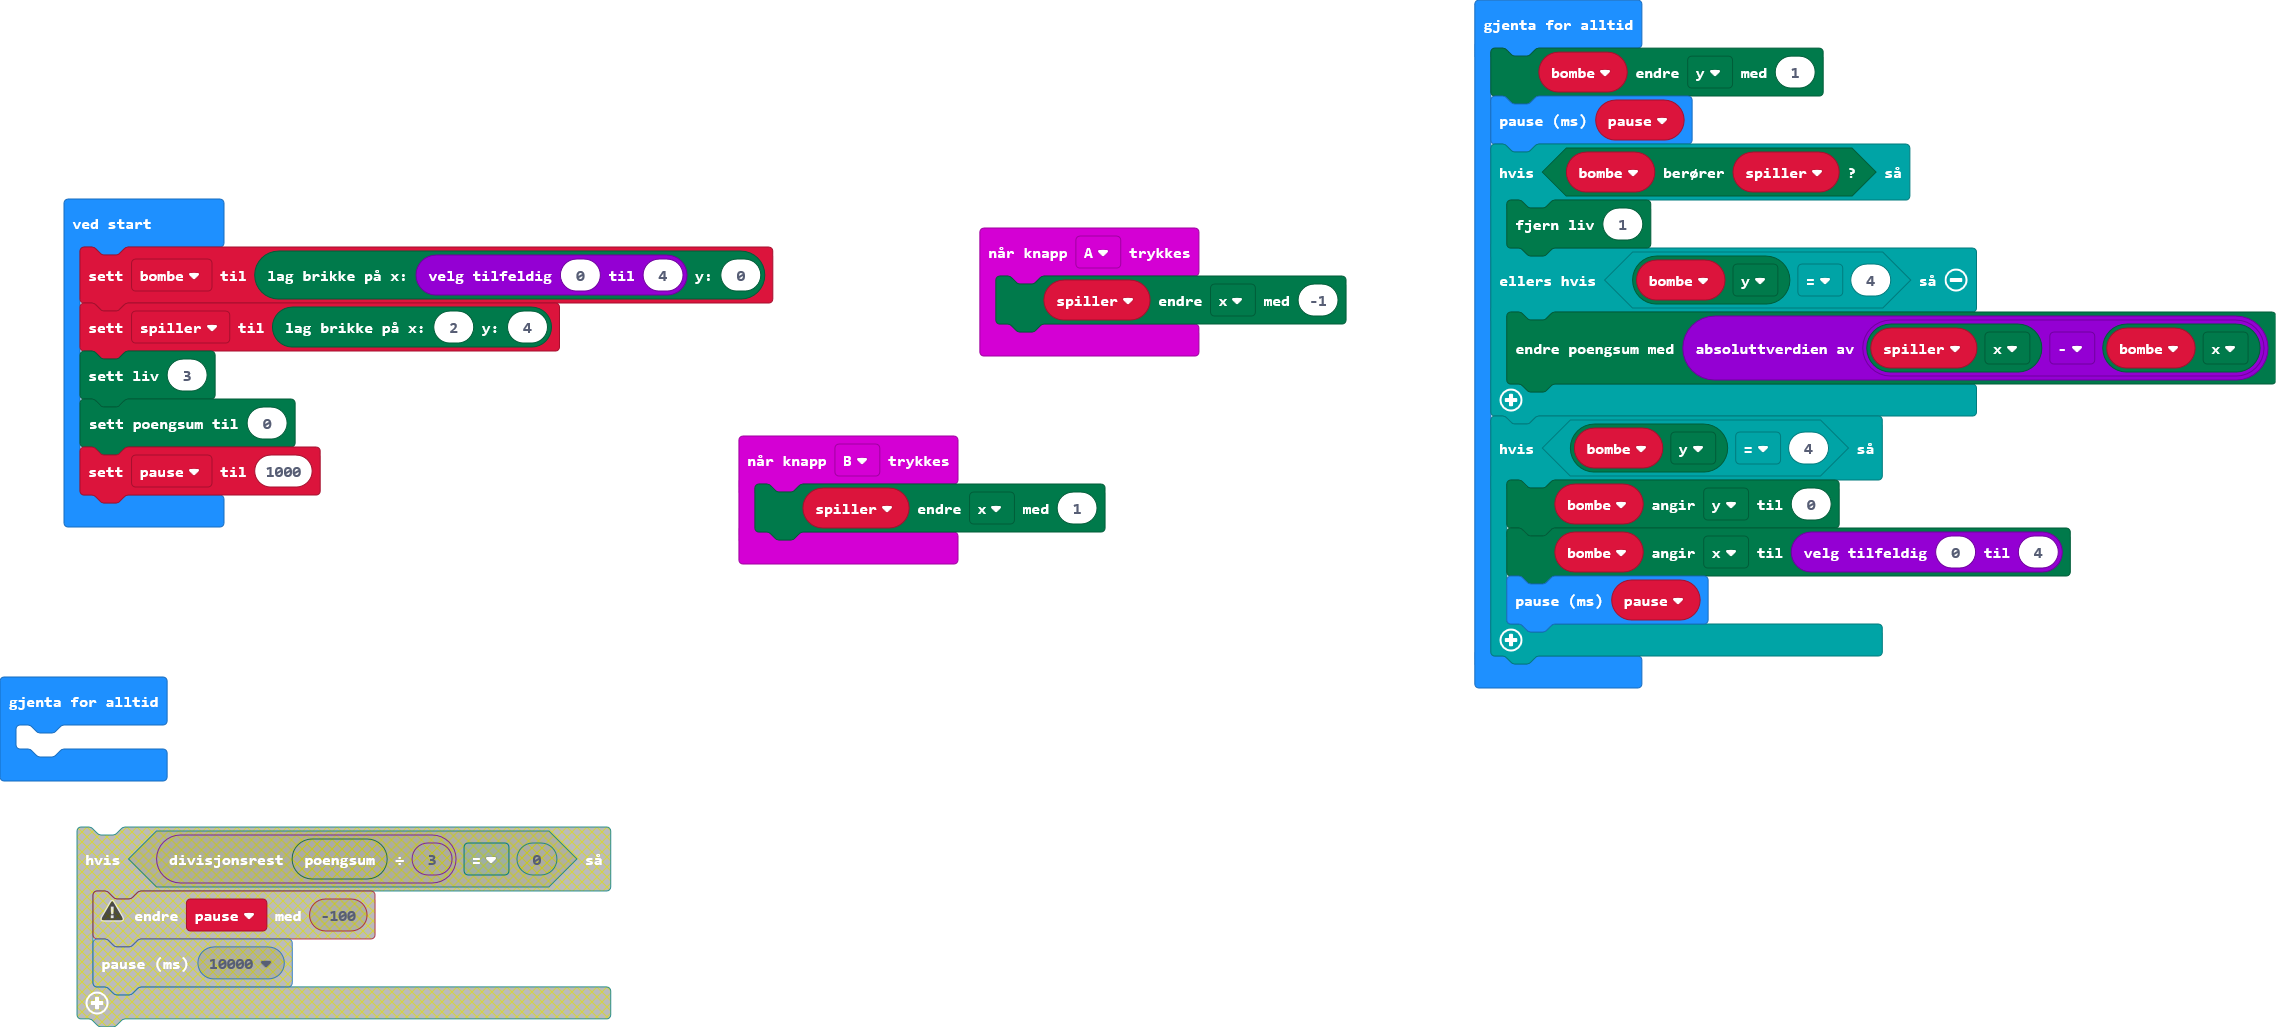
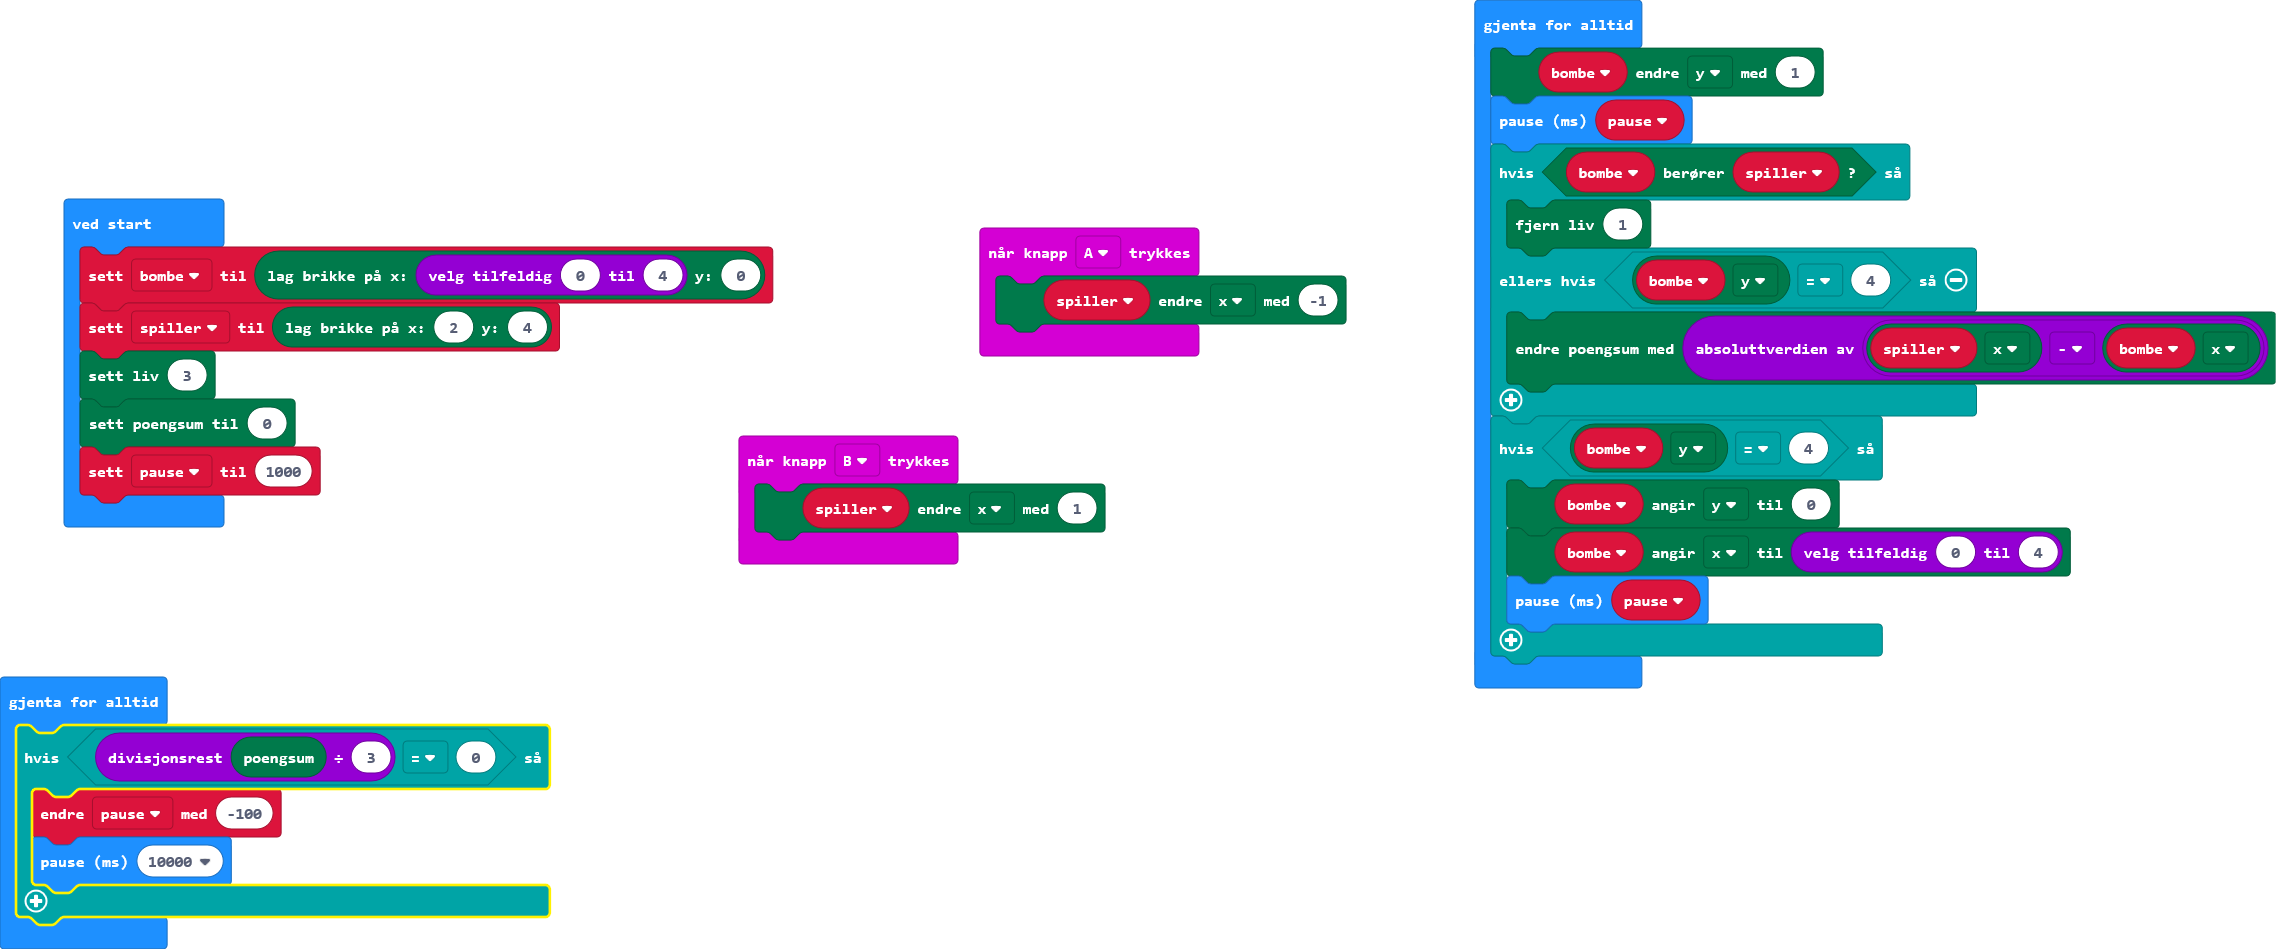
Update main.blocks, main.ts

diff --git a/main.ts b/main.ts
@@ -25,5 +25,8 @@ basic.forever(function () {
     }
 })
 basic.forever(function () {
-	
+    if (game.score() % 3 == 0) {
+        pause2 += -100
+        basic.pause(10000)
+    }
 })
